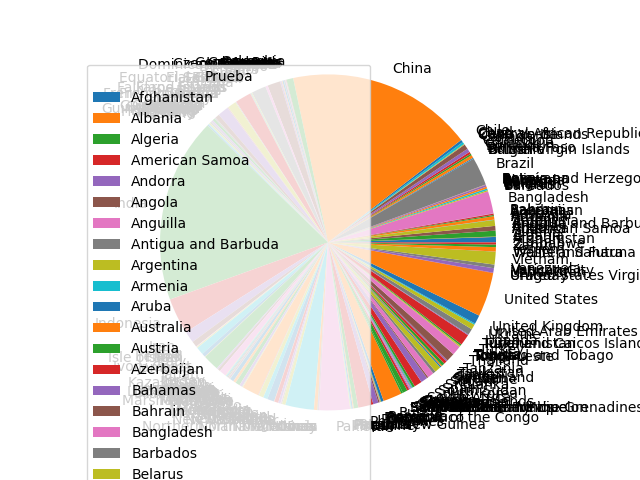
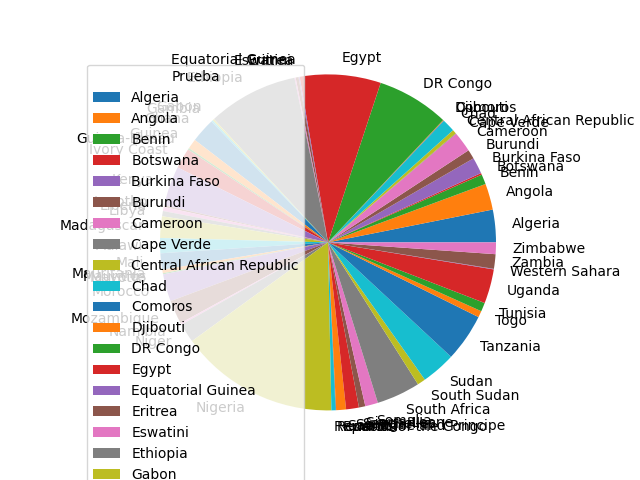
Se agrega funcionalidad con Pandas

diff --git a/app/reto.py b/app/reto.py
@@ -8,8 +8,10 @@ print("*" * 7, "RETO", "*" * 7)
 import csv
 import utils
 import charts
+import pandas as pd
 
 def read_csv(path):
+  """ #Lo comentamos para implementar Pandas
   with open(path, "r") as file:
     reader = csv.reader(file, delimiter=",")
     header = next(reader)
@@ -28,35 +30,43 @@ def read_csv(path):
     #print("paises:", paises)
     porcentajes = list(map(lambda x: x["World Population Percentage"], data))
     #print("porcentajes:", porcentajes)
-    charts.generate_pie_chart(paises, porcentajes)
+    """ #Lo comentamos para implementar Pandas
 
-    pais = input("País:")
-    result = utils.get_poblacion_por_pais(data, pais)
-    print("result:", result)
+  df = pd.read_csv(path)
+  df = df[df["Continent"] == "Africa"]
+  paises = df["Country/Territory"].values
+  porcentajes = df["World Population Percentage"].values
 
-    if len(result) > 0:
-      pais = result[0]
-      labels, values = utils.get_reto(pais)
-      charts.generate_bar_chart(pais["Country/Territory"], labels, values)
+  charts.generate_pie_chart(paises, porcentajes)
 
-    """
-    pais_search = input("País:")
+  """
+  pais = input("País:")
+  result = utils.get_poblacion_por_pais(data, pais)
+  print("result:", result)
+
+  if len(result) > 0:
+    pais = result[0]
+    labels, values = utils.get_reto(pais)
+    charts.generate_bar_chart(pais["Country/Territory"], labels, values)
+  """
+  """
+  pais_search = input("País:")
+  
+  for row in reader:
+    print("PAIS A EVALUAR:", row[1])
+    print("ROW:", row)
     
-    for row in reader:
-      print("PAIS A EVALUAR:", row[1])
-      print("ROW:", row)
+    if pais_search == row[1]:
+      print("***" * 5, "PAIS ENCONTRADO", "***" * 5)
+      iterable = zip(header, row)
+      pais = dict(iterable)
+      print(pais)
+      k, v = utils.get_reto(pais)
+      print("***" * 5, "PAIS ENCONTRADO", "***" * 5)
       
-      if pais_search == row[1]:
-        print("***" * 5, "PAIS ENCONTRADO", "***" * 5)
-        iterable = zip(header, row)
-        pais = dict(iterable)
-        print(pais)
-        k, v = utils.get_reto(pais)
-        print("***" * 5, "PAIS ENCONTRADO", "***" * 5)
-        
-        charts.generate_poblacion(k, v)
-        break
-    """
+      charts.generate_poblacion(k, v)
+      break
+  """
 
 if __name__ == "__main__":
   read_csv("data.csv")

diff --git a/web-server/store.py b/web-server/store.py
@@ -1,0 +1,12 @@
+import requests
+
+def get_categories():
+  r = requests.get("https://api.escuelajs.co/api/v1/categories")
+  print("status_code:", r.status_code)
+  print("text:", r.text)
+  print("type:", type(r.text))
+
+  categories = r.json()
+
+  for category in categories:
+    print("Category:", category["name"])

diff --git a/web-server/main.py b/web-server/main.py
@@ -1,0 +1,7 @@
+import store
+
+def run():
+  store.get_categories()
+
+if __name__ == "__main__":
+  run()
